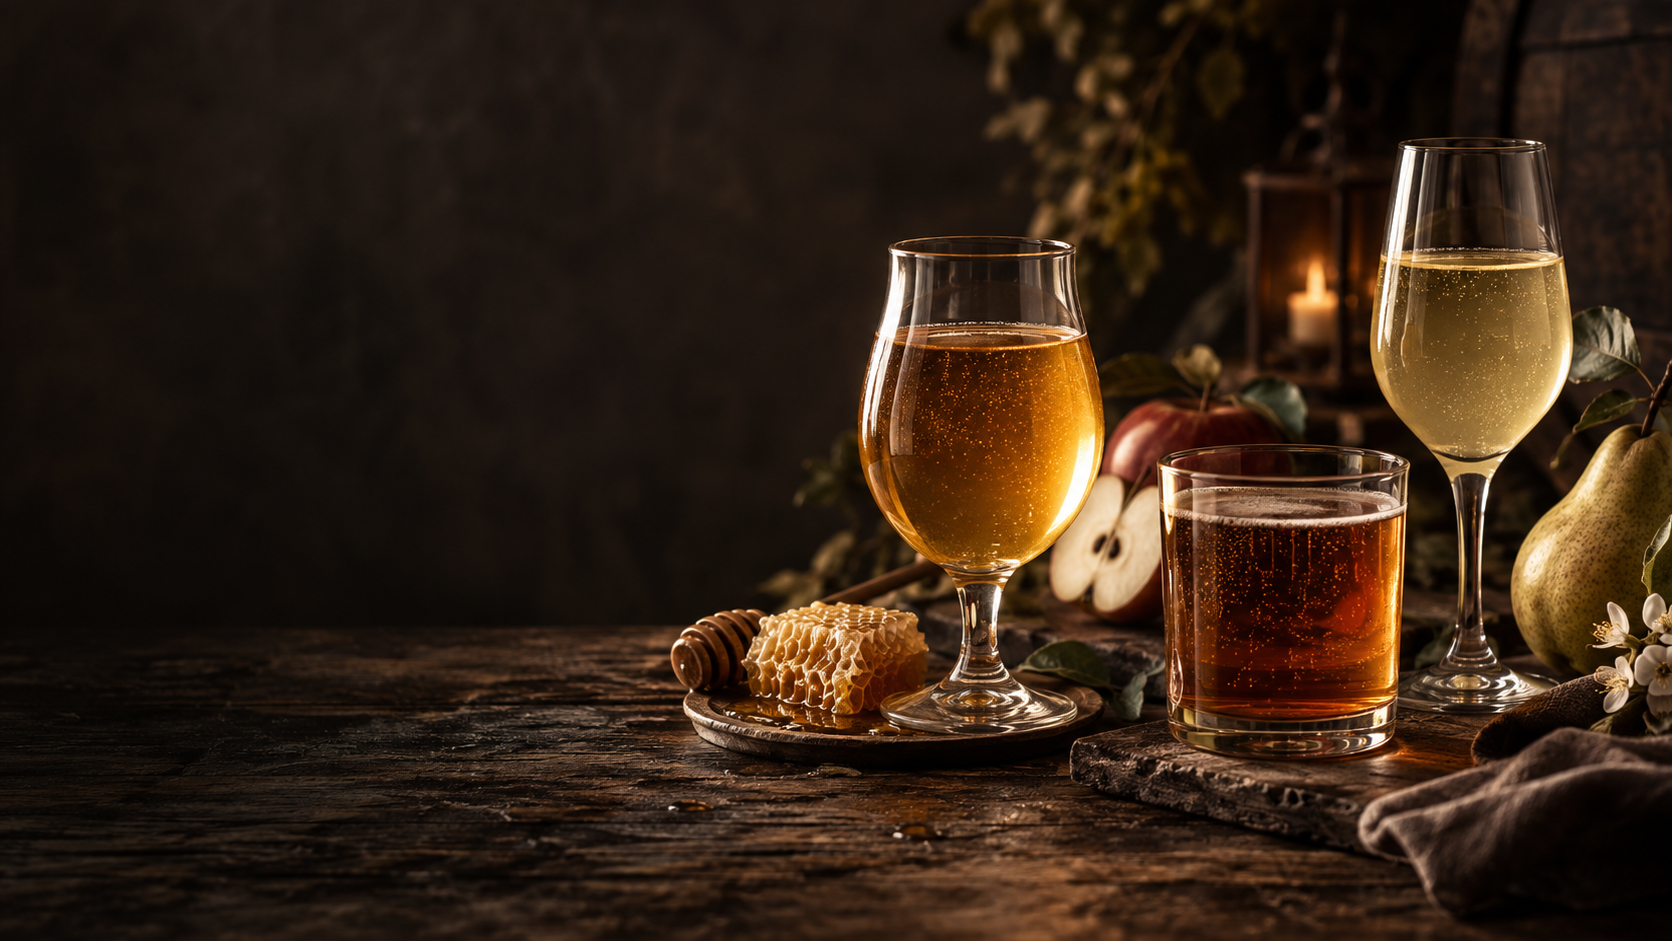
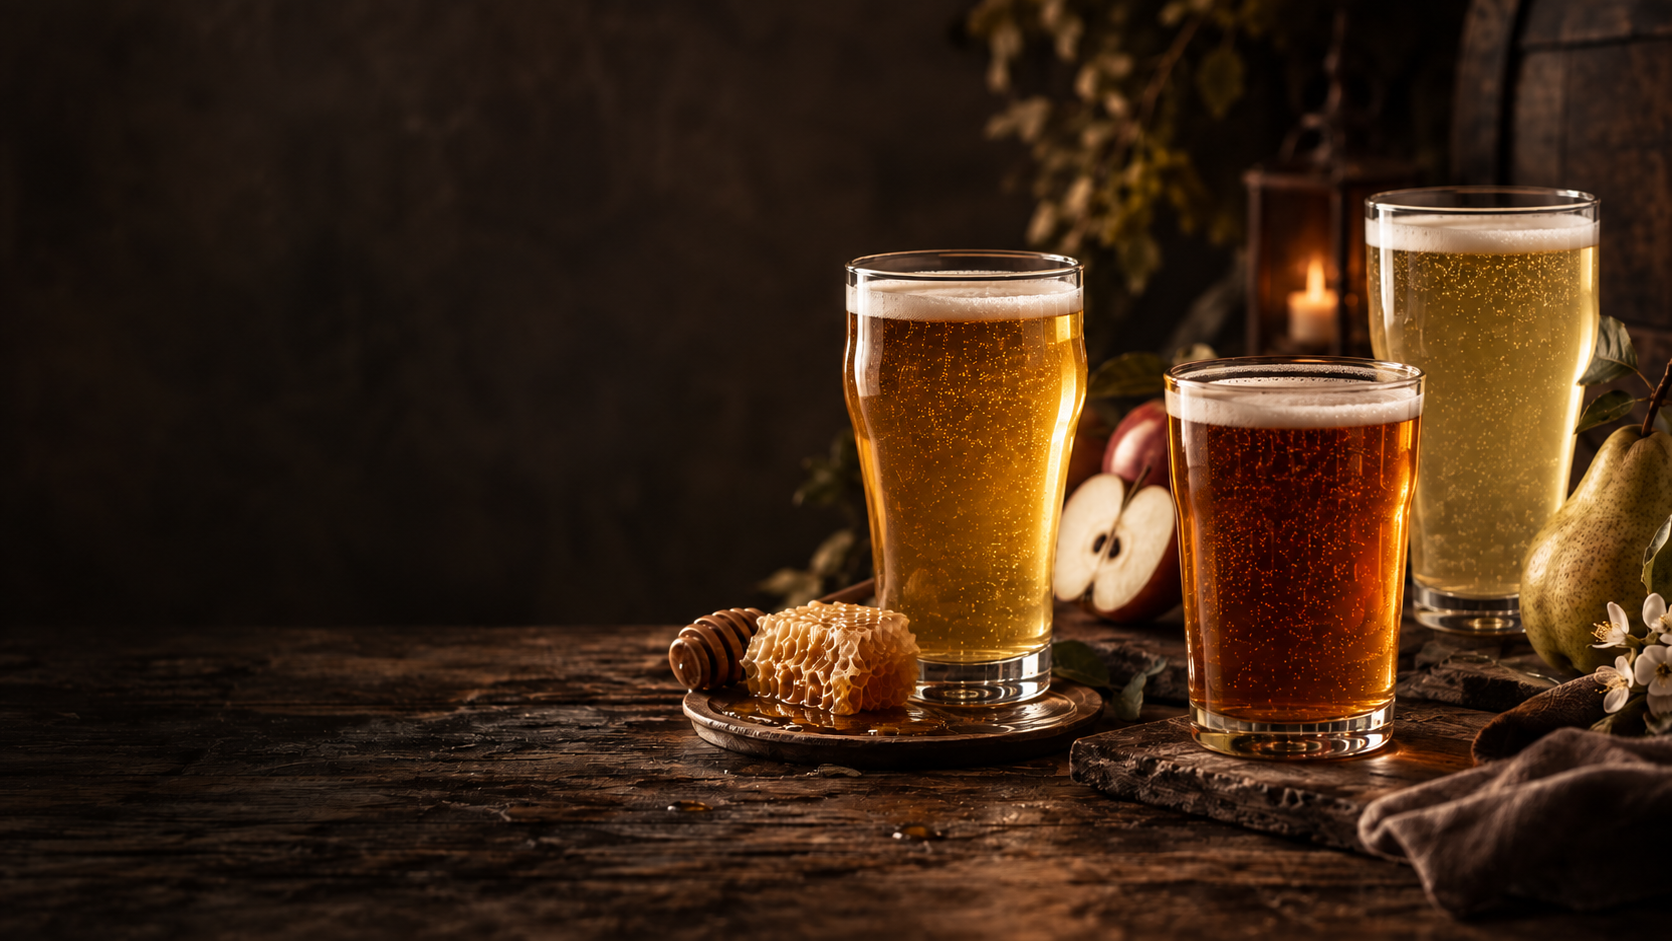
Update hero images and alternative text across components for improved consistency and user experience.

diff --git a/src/components/AboutPage.vue b/src/components/AboutPage.vue
@@ -3,7 +3,7 @@ import { onMounted } from 'vue'
 import SectionWatermark from './SectionWatermark.vue'
 import { sitePath } from '../utils/site-path'
 import aboutCompanyImageUrl from '../assets/about-company-enhanced.png'
-import aboutHeroImageUrl from '../assets/about-hero-meadery.png'
+import aboutHeroImageUrl from '../assets/about-hero.png'
 import awardInterfood2007Url from '../assets/award-interfood-2007.jpg'
 import awardMedovukhaFest2016Url from '../assets/award-medovukha-fest-2016.jpg'
 import awardNewProduct2007Url from '../assets/award-new-product-2007.jpg'
@@ -67,7 +67,7 @@ onMounted(() => {
 
 <template>
   <div>
-    <PageHero title-id="about-page-title" :image-url="aboutHeroImageUrl" image-alt="Медоваренное производство с медным варочным оборудованием">
+    <PageHero title-id="about-page-title" :image-url="aboutHeroImageUrl" image-alt="Руки мастера работают с медовыми сотами на деревянном столе">
       <template #title>Традиция<br>живёт здесь</template>
       Петербургский производитель медовухи, сидра и пуаре с собственной историей, характером и узнаваемыми рецептами.
     </PageHero>

diff --git a/src/components/ContactsPage.vue b/src/components/ContactsPage.vue
@@ -25,7 +25,7 @@ onMounted(() => {
     <PageHero
       title-id="contacts-title"
       :image-url="contactsHeroImageUrl"
-      image-alt="Интерьер медоварни с медным производственным оборудованием"
+      image-alt="Иллюстрация кирпичного промышленного здания с входом"
     >
       <template #title>Контакты</template>
       Товарищество пиво-медоваренного завода «МЁДВЕДЬ». Производим и поставляем медовуху, сидр и пуаре из Санкт-Петербурга.

diff --git a/src/components/PageHero.vue b/src/components/PageHero.vue
@@ -1,10 +1,10 @@
 <script setup>
-import productionImageUrl from '../assets/production-hero-v2.png'
+import productionImageUrl from '../assets/production-hero.png'
 
 defineProps({
   titleId: { type: String, required: true },
   imageUrl: { type: String, default: productionImageUrl },
-  imageAlt: { type: String, default: 'Медоваренное производство с медным варочным оборудованием' },
+  imageAlt: { type: String, default: 'Производственный цех с оборудованием из нержавеющей стали' },
 })
 </script>
 

diff --git a/src/components/PartnersPage.vue b/src/components/PartnersPage.vue
@@ -50,7 +50,7 @@ onMounted(() => {
     <PageHero
       title-id="partners-page-title"
       :image-url="partnersHeroUrl"
-      image-alt="Напитки в бутылках и бокале на стойке магазина"
+      image-alt="Бутылки медовухи и сидра на полках магазина"
     >
       <template #title>Где купить<br>«Мёдведь»</template>
       Ищите нашу медовуху, сидр и пуаре у региональных партнёров — в бутылках, кегах и в розлив.

diff --git a/src/components/CatalogPage.vue b/src/components/CatalogPage.vue
@@ -5,7 +5,7 @@ import PageHero from './PageHero.vue'
 import SectionLink from './SectionLink.vue'
 import { catalogCategories } from '../data/catalog'
 import { sitePath } from '../utils/site-path'
-import catalogHeroUrl from '../assets/catalog-hero-v2.png'
+import catalogHeroUrl from '../assets/catalog-hero.png'
 
 onMounted(() => {
   document.title = 'Каталог медовухи, сидра и пуаре «МЁДВЕДЬ»'
